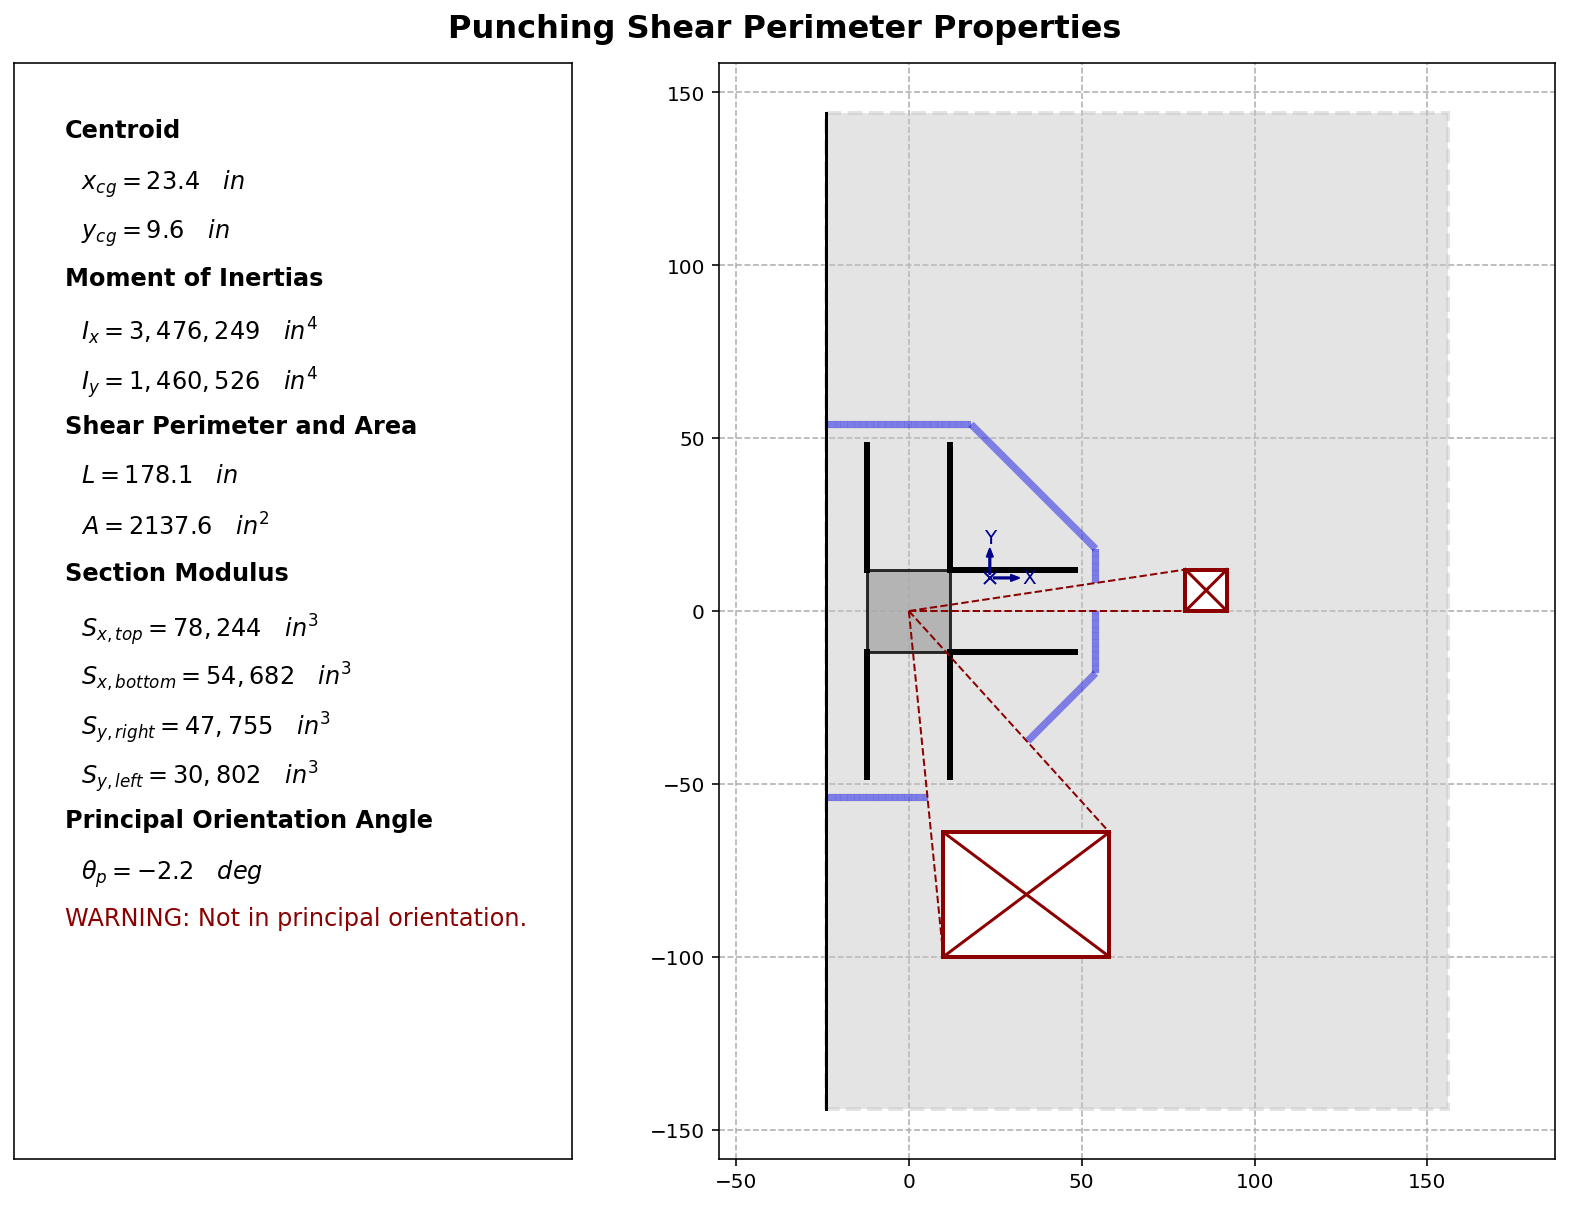
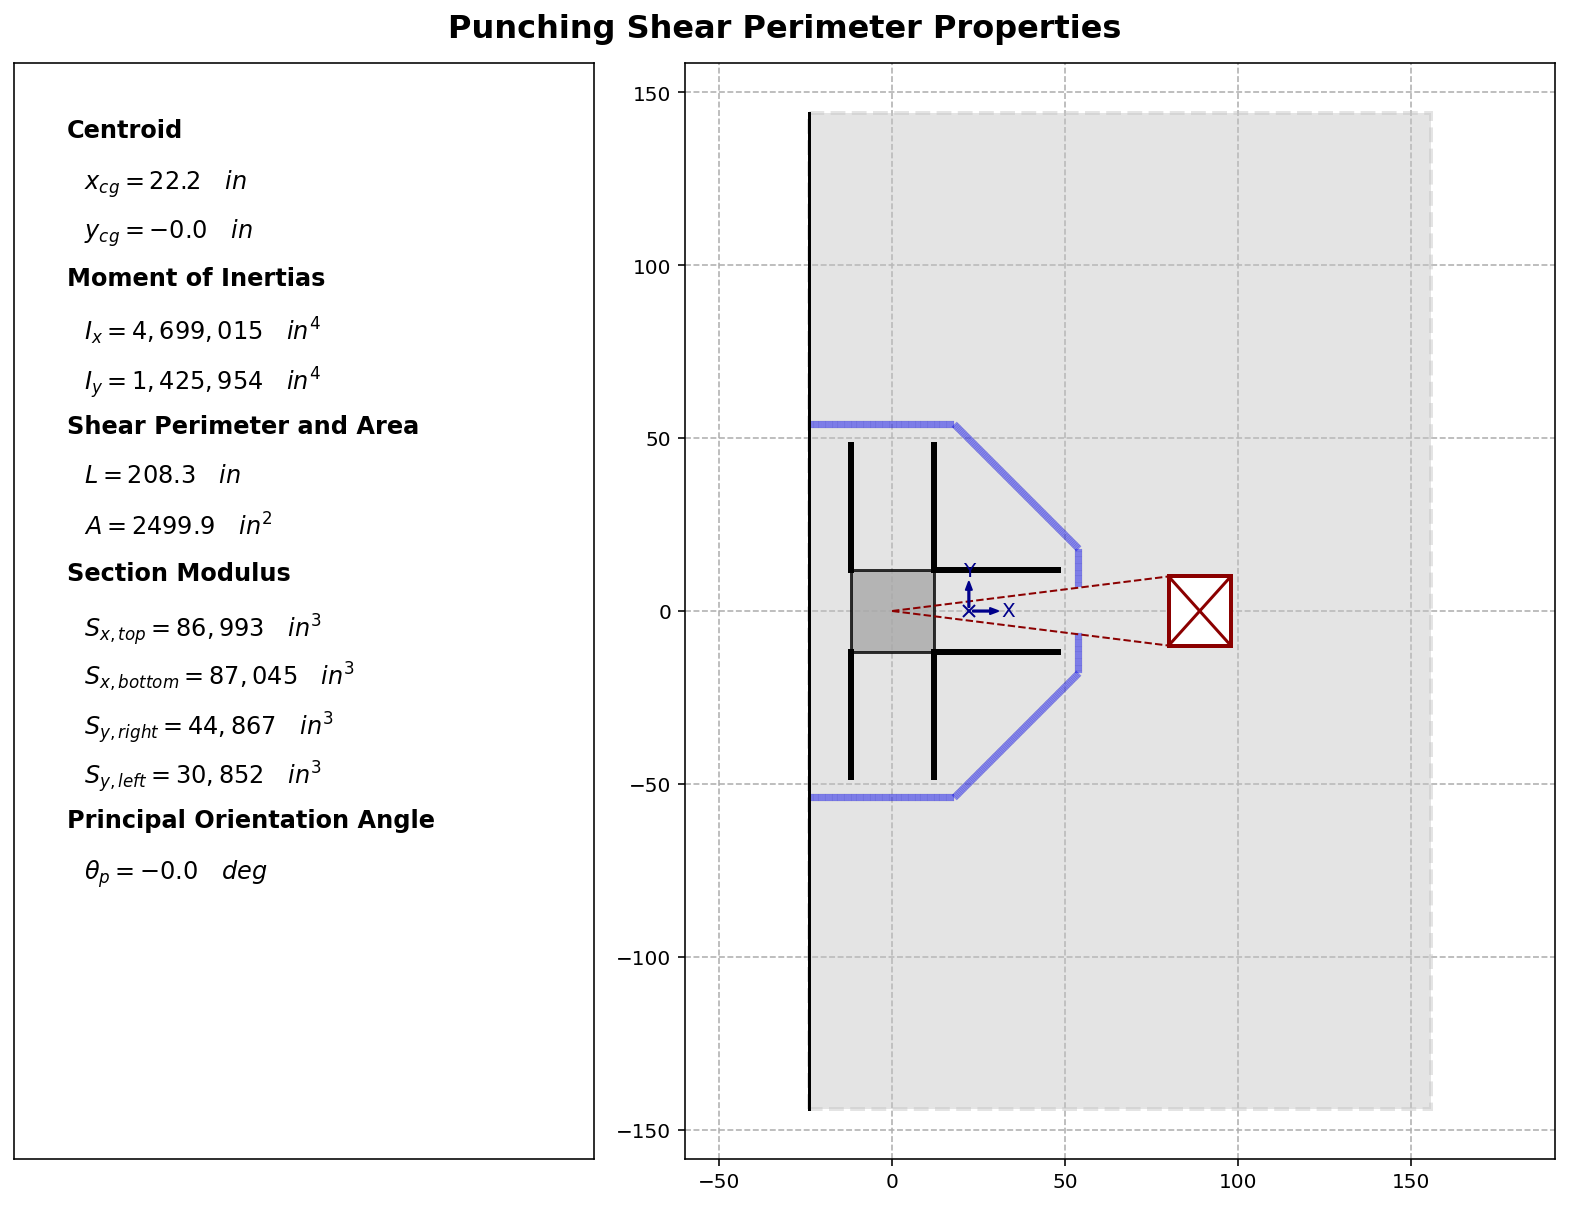
readme progress

diff --git a/main.py b/main.py
@@ -10,8 +10,8 @@ column1 = wthisj.PunchingShearSection(width = 24,
                                       L_studrail = 36)
 
 # add openings
-column1.add_opening(dx=10, dy=-100, width=48, height=36)
-column1.add_opening(dx=80, dy=0, width=12, height=12)
+column1.add_opening(dx=80, dy=-10, width=18, height=20)
+
 
 # preview geometry
 column1.preview()
@@ -24,6 +24,8 @@ results = column1.solve(P = 100,
                         auto_rotate=False, 
                         verbose=True)
 
-# plot results
+# plot results (matplotlib)
 column1.plot_results()
+
+# plot results (plotly)
 column1.plot_results_3D()

diff --git a/README.md b/README.md
@@ -46,8 +46,8 @@ column1 = wthisj.PunchingShearSection(width = 24,
                                       L_studrail = 36)
 
 # add openings
-column1.add_opening(dx=10, dy=-100, width=48, height=36)
-column1.add_opening(dx=80, dy=0, width=12, height=12)
+column1.add_opening(dx=80, dy=-10, width=18, height=20)
+
 
 # preview geometry
 column1.preview()
@@ -60,8 +60,10 @@ results = column1.solve(P = 100,
                         auto_rotate=False, 
                         verbose=True)
 
-# plot results
+# plot results (matplotlib)
 column1.plot_results()
+
+# plot results (plotly)
 column1.plot_results_3D()
 ```
 
